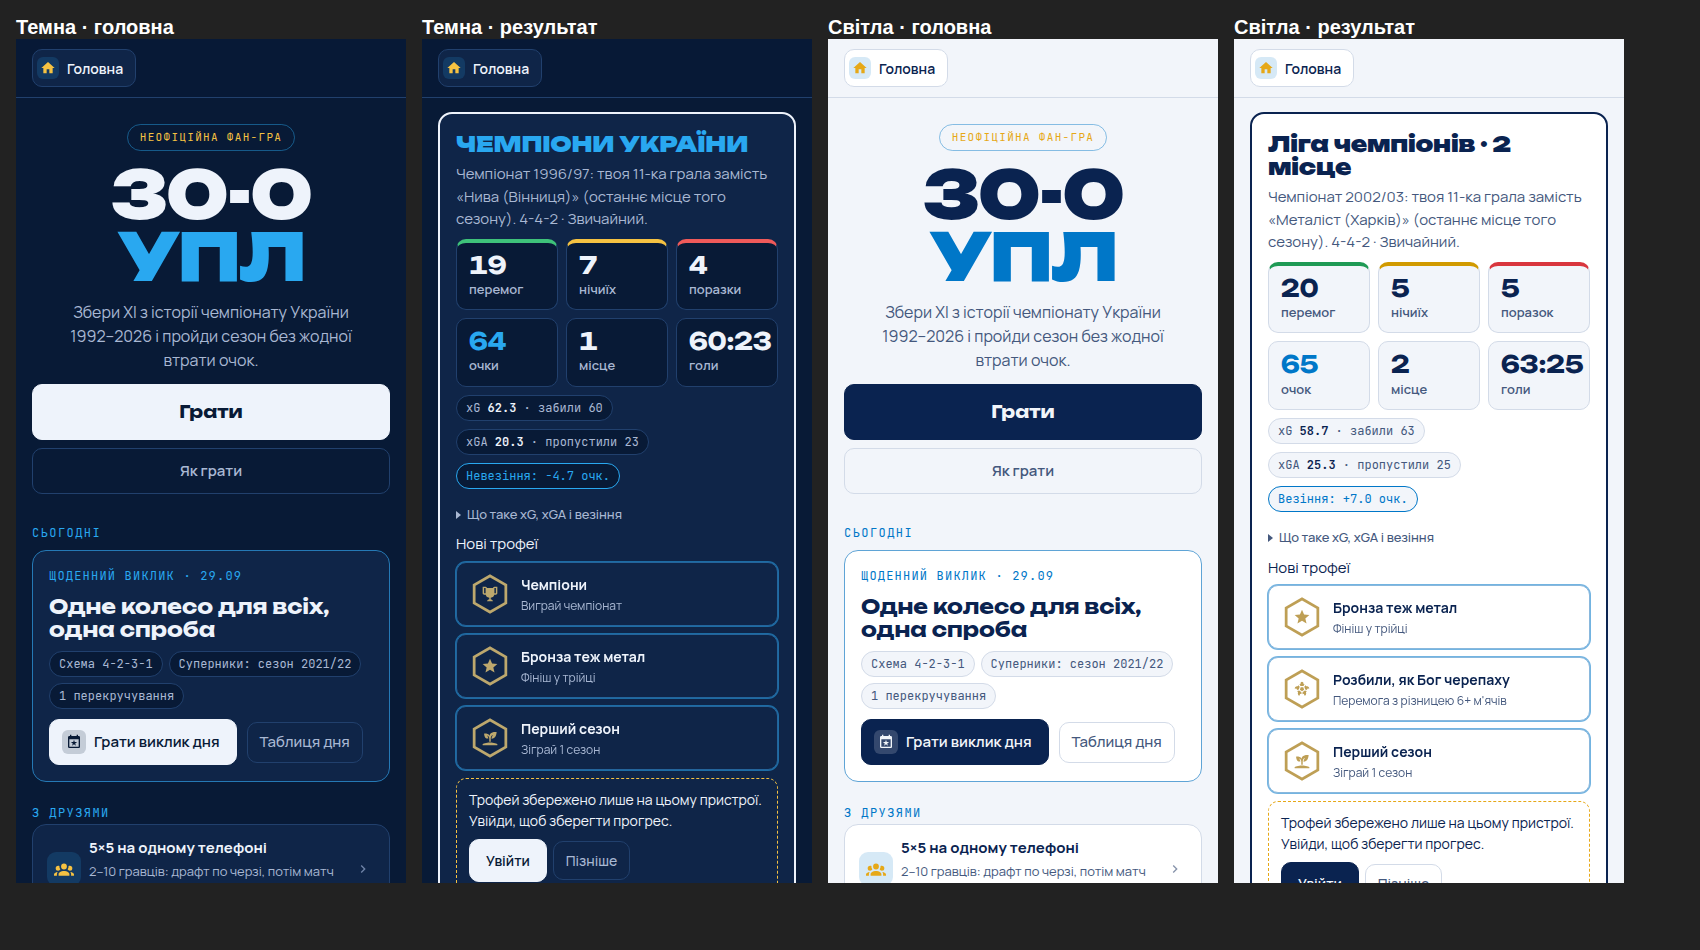
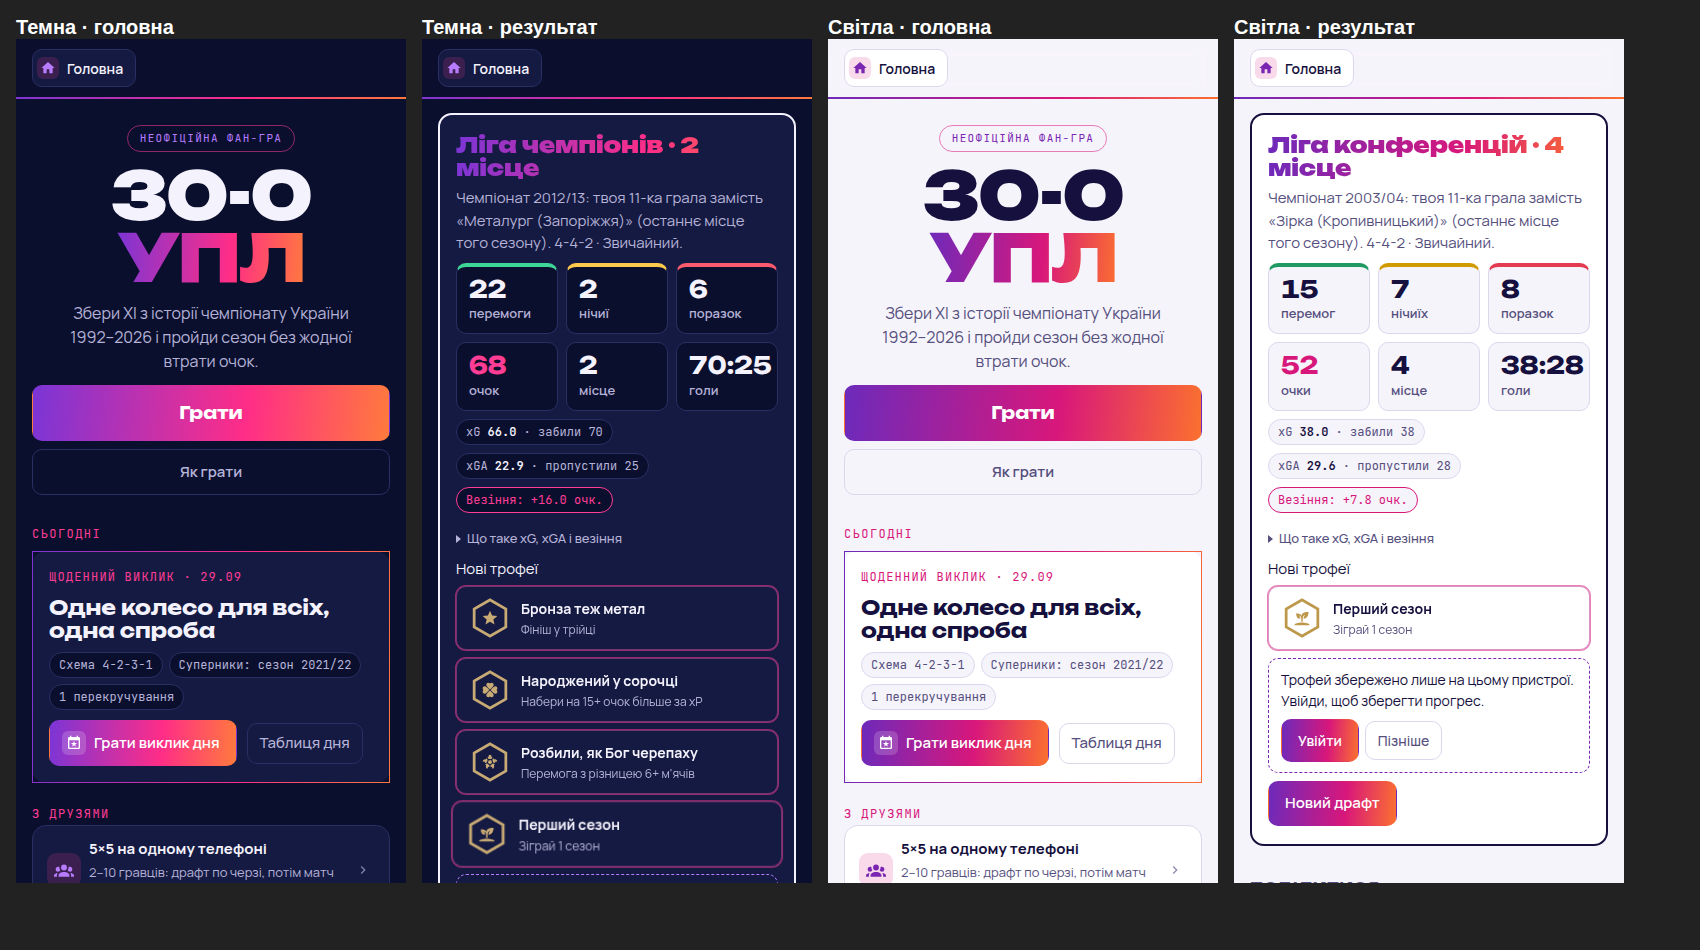
Тема УПЛ (?skin=upl): синій + градієнт фіолетовий→рожевий→помаранчевий, як UPL.TV
scenarios: усе гаразд, determinism 8/8.

Claude-Session: https://claude.ai/code/session_01Y4Xuhh4kofeZW6QkSmyDid

diff --git a/index.html b/index.html
@@ -37,9 +37,9 @@
 :root[data-skin="board"]{--bg:#f5f3ef; --bg2:#ebe8e2; --surface:#fffdf9; --line:#dcd7ce; --ink:#161514; --ink2:#5c5850; --muted:#928c82; --pitch:#2f6b45; --pitch2:#234f33; --chalk:#ffffff; --amber:#c44f00; --amber2:#ff8a2a; --win:#34C759; --draw:#FFCC00; --loss:#FF3B30; --gk:#FFCC00; --df:#007AFF; --mf:#34C759; --fw:#FF3B30;}
 @media (prefers-color-scheme: dark){ :root[data-skin="board"]:not([data-theme="light"]){--bg:#121212; --bg2:#0b0b0b; --surface:#1c1c1d; --line:#303032; --ink:#f4f1ea; --ink2:#b3aea4; --muted:#7c776f; --pitch:#2c563b; --pitch2:#1c3a27; --chalk:#f0ede6; --amber:#ff7a1a; --amber2:#ff9a3d; --win:#30D158; --draw:#FFD60A; --loss:#FF453A; --gk:#FFD60A; --df:#0A84FF; --mf:#30D158; --fw:#FF453A; color-scheme:dark;}}
 :root[data-skin="board"][data-theme="dark"]{--bg:#121212; --bg2:#0b0b0b; --surface:#1c1c1d; --line:#303032; --ink:#f4f1ea; --ink2:#b3aea4; --muted:#7c776f; --pitch:#2c563b; --pitch2:#1c3a27; --chalk:#f0ede6; --amber:#ff7a1a; --amber2:#ff9a3d; --win:#30D158; --draw:#FFD60A; --loss:#FF453A; --gk:#FFD60A; --df:#0A84FF; --mf:#30D158; --fw:#FF453A; color-scheme:dark;}
-:root[data-skin="upl"]{--bg:#f2f5fa; --bg2:#e6ebf3; --surface:#ffffff; --line:#d3dbe8; --ink:#0a2350; --ink2:#44587d; --muted:#8793ab; --pitch:#1d6b4a; --pitch2:#155437; --chalk:#ffffff; --amber:#0077c8; --amber2:#e6a817; --win:#1f9a55; --draw:#d19a00; --loss:#d9363e; --gk:#e6a817; --df:#0077c8; --mf:#1f9a55; --fw:#d9363e;}
-@media (prefers-color-scheme: dark){ :root[data-skin="upl"]:not([data-theme="light"]){--bg:#081a36; --bg2:#06142b; --surface:#0f2548; --line:#21406d; --ink:#eef3fb; --ink2:#a9b8d3; --muted:#7084a8; --pitch:#1d6b4a; --pitch2:#134834; --chalk:#e8f0f8; --amber:#29a8f0; --amber2:#f5c242; --win:#3ec27a; --draw:#f5c242; --loss:#ef5a5a; --gk:#f5c242; --df:#29a8f0; --mf:#3ec27a; --fw:#ef5a5a; color-scheme:dark;}}
-:root[data-skin="upl"][data-theme="dark"]{--bg:#081a36; --bg2:#06142b; --surface:#0f2548; --line:#21406d; --ink:#eef3fb; --ink2:#a9b8d3; --muted:#7084a8; --pitch:#1d6b4a; --pitch2:#134834; --chalk:#e8f0f8; --amber:#29a8f0; --amber2:#f5c242; --win:#3ec27a; --draw:#f5c242; --loss:#ef5a5a; --gk:#f5c242; --df:#29a8f0; --mf:#3ec27a; --fw:#ef5a5a; color-scheme:dark;}
+:root[data-skin="upl"]{--bg:#f6f4fb; --bg2:#ece8f6; --surface:#ffffff; --line:#ddd7ee; --ink:#15103d; --ink2:#554f7d; --muted:#908bb0; --pitch:#1f6b52; --pitch2:#16513d; --chalk:#ffffff; --amber:#d8177b; --amber2:#7a26b3; --win:#1f9a62; --draw:#d19a00; --loss:#e23b52; --gk:#e0a100; --df:#3b5bdb; --mf:#1f9a62; --fw:#e23b52; --grad:linear-gradient(95deg,#6d2abb 0%,#d8177b 60%,#fb702f 100%);}
+@media (prefers-color-scheme: dark){ :root[data-skin="upl"]:not([data-theme="light"]){--bg:#0b0f2e; --bg2:#070a22; --surface:#151a42; --line:#282f62; --ink:#f4f2fc; --ink2:#b5b3d8; --muted:#7c80aa; --pitch:#1c5c46; --pitch2:#123f30; --chalk:#e8ecf8; --amber:#ff3d94; --amber2:#b77cff; --win:#3ed598; --draw:#ffc94d; --loss:#ff5a6e; --gk:#ffc94d; --df:#6f8cff; --mf:#3ed598; --fw:#ff5a6e; --grad:linear-gradient(95deg,#7b35d6 0%,#ff2d87 60%,#ff7a3d 100%); color-scheme:dark;}}
+:root[data-skin="upl"][data-theme="dark"]{--bg:#0b0f2e; --bg2:#070a22; --surface:#151a42; --line:#282f62; --ink:#f4f2fc; --ink2:#b5b3d8; --muted:#7c80aa; --pitch:#1c5c46; --pitch2:#123f30; --chalk:#e8ecf8; --amber:#ff3d94; --amber2:#b77cff; --win:#3ed598; --draw:#ffc94d; --loss:#ff5a6e; --gk:#ffc94d; --df:#6f8cff; --mf:#3ed598; --fw:#ff5a6e; --grad:linear-gradient(95deg,#7b35d6 0%,#ff2d87 60%,#ff7a3d 100%); color-scheme:dark;}
 :root[data-skin="programme"]{--bg:#f4ecdc; --bg2:#eadfca; --surface:#fbf6ea; --line:#d8cbb0; --ink:#1b2340; --ink2:#4d5470; --muted:#8a8570; --pitch:#4f7a3a; --pitch2:#3a5e2b; --chalk:#fbf6ea; --amber:#c8202f; --amber2:#ffd54a; --win:#3d7a34; --draw:#b8901c; --loss:#c8202f; --gk:#c79a1e; --df:#2a4f9c; --mf:#3d7a34; --fw:#c8202f;}
 @media (prefers-color-scheme: dark){ :root[data-skin="programme"]:not([data-theme="light"]){--bg:#161b2e; --bg2:#10152a; --surface:#1e2540; --line:#333c5e; --ink:#f4ecdc; --ink2:#c2bba6; --muted:#878399; --pitch:#4a763a; --pitch2:#33552a; --chalk:#f4ecdc; --amber:#ff5a5f; --amber2:#ffd54a; --win:#6cc25c; --draw:#e6c04a; --loss:#ff5a5f; --gk:#ffd54a; --df:#7ea6ff; --mf:#6cc25c; --fw:#ff5a5f; color-scheme:dark;}}
 :root[data-skin="programme"][data-theme="dark"]{--bg:#161b2e; --bg2:#10152a; --surface:#1e2540; --line:#333c5e; --ink:#f4ecdc; --ink2:#c2bba6; --muted:#878399; --pitch:#4a763a; --pitch2:#33552a; --chalk:#f4ecdc; --amber:#ff5a5f; --amber2:#ffd54a; --win:#6cc25c; --draw:#e6c04a; --loss:#ff5a5f; --gk:#ffd54a; --df:#7ea6ff; --mf:#6cc25c; --fw:#ff5a5f; color-scheme:dark;}
@@ -243,6 +243,11 @@ button.ghost.big0{padding:11px 18px;font-size:15px;font-family:var(--font-body);
 .facts0{justify-content:center;margin-top:18px}.hero0 h1{font-size:clamp(24px,5.5vw,36px);line-height:1.1;letter-spacing:-.01em}
 .lead0{font-size:16px;color:var(--ink2);margin:0;max-width:60ch}.facts0{display:flex;flex-wrap:wrap;gap:6px 16px;font-size:13px;color:var(--ink2)}.facts0 b{font-family:var(--font-display);color:var(--ink);font-size:16px}
 .mode0{margin-top:14px}
+:root[data-skin="upl"] .logo0 span,:root[data-skin="upl"] .tier{background:var(--grad);-webkit-background-clip:text;background-clip:text;color:transparent}
+:root[data-skin="upl"] button.primary{background:var(--grad);color:#fff;border-color:transparent}:root[data-skin="upl"] button.primary .ic{background:rgba(255,255,255,.18);color:#fff}
+:root[data-skin="upl"] .badge0{border-color:color-mix(in srgb,var(--amber) 55%,transparent)}:root[data-skin="upl"] #dailyCard{border-image:var(--grad) 1;border-width:1px;border-style:solid}
+:root[data-skin="upl"] header.top{border-bottom:2px solid transparent;border-image:var(--grad) 1}
+
 #moveBtn.on{border-color:var(--amber);color:var(--amber)}
 #wHint{display:block;text-align:right;font-size:12px;margin-top:-2px}
 html.tgfs header.top{padding-top:calc(10px + var(--tg-safe-area-inset-top,0px) + var(--tg-content-safe-area-inset-top,0px))}

diff --git a/src/template.html b/src/template.html
@@ -24,9 +24,9 @@
 :root[data-skin="board"]{--bg:#f5f3ef; --bg2:#ebe8e2; --surface:#fffdf9; --line:#dcd7ce; --ink:#161514; --ink2:#5c5850; --muted:#928c82; --pitch:#2f6b45; --pitch2:#234f33; --chalk:#ffffff; --amber:#c44f00; --amber2:#ff8a2a; --win:#34C759; --draw:#FFCC00; --loss:#FF3B30; --gk:#FFCC00; --df:#007AFF; --mf:#34C759; --fw:#FF3B30;}
 @media (prefers-color-scheme: dark){ :root[data-skin="board"]:not([data-theme="light"]){--bg:#121212; --bg2:#0b0b0b; --surface:#1c1c1d; --line:#303032; --ink:#f4f1ea; --ink2:#b3aea4; --muted:#7c776f; --pitch:#2c563b; --pitch2:#1c3a27; --chalk:#f0ede6; --amber:#ff7a1a; --amber2:#ff9a3d; --win:#30D158; --draw:#FFD60A; --loss:#FF453A; --gk:#FFD60A; --df:#0A84FF; --mf:#30D158; --fw:#FF453A; color-scheme:dark;}}
 :root[data-skin="board"][data-theme="dark"]{--bg:#121212; --bg2:#0b0b0b; --surface:#1c1c1d; --line:#303032; --ink:#f4f1ea; --ink2:#b3aea4; --muted:#7c776f; --pitch:#2c563b; --pitch2:#1c3a27; --chalk:#f0ede6; --amber:#ff7a1a; --amber2:#ff9a3d; --win:#30D158; --draw:#FFD60A; --loss:#FF453A; --gk:#FFD60A; --df:#0A84FF; --mf:#30D158; --fw:#FF453A; color-scheme:dark;}
-:root[data-skin="upl"]{--bg:#f2f5fa; --bg2:#e6ebf3; --surface:#ffffff; --line:#d3dbe8; --ink:#0a2350; --ink2:#44587d; --muted:#8793ab; --pitch:#1d6b4a; --pitch2:#155437; --chalk:#ffffff; --amber:#0077c8; --amber2:#e6a817; --win:#1f9a55; --draw:#d19a00; --loss:#d9363e; --gk:#e6a817; --df:#0077c8; --mf:#1f9a55; --fw:#d9363e;}
-@media (prefers-color-scheme: dark){ :root[data-skin="upl"]:not([data-theme="light"]){--bg:#081a36; --bg2:#06142b; --surface:#0f2548; --line:#21406d; --ink:#eef3fb; --ink2:#a9b8d3; --muted:#7084a8; --pitch:#1d6b4a; --pitch2:#134834; --chalk:#e8f0f8; --amber:#29a8f0; --amber2:#f5c242; --win:#3ec27a; --draw:#f5c242; --loss:#ef5a5a; --gk:#f5c242; --df:#29a8f0; --mf:#3ec27a; --fw:#ef5a5a; color-scheme:dark;}}
-:root[data-skin="upl"][data-theme="dark"]{--bg:#081a36; --bg2:#06142b; --surface:#0f2548; --line:#21406d; --ink:#eef3fb; --ink2:#a9b8d3; --muted:#7084a8; --pitch:#1d6b4a; --pitch2:#134834; --chalk:#e8f0f8; --amber:#29a8f0; --amber2:#f5c242; --win:#3ec27a; --draw:#f5c242; --loss:#ef5a5a; --gk:#f5c242; --df:#29a8f0; --mf:#3ec27a; --fw:#ef5a5a; color-scheme:dark;}
+:root[data-skin="upl"]{--bg:#f6f4fb; --bg2:#ece8f6; --surface:#ffffff; --line:#ddd7ee; --ink:#15103d; --ink2:#554f7d; --muted:#908bb0; --pitch:#1f6b52; --pitch2:#16513d; --chalk:#ffffff; --amber:#d8177b; --amber2:#7a26b3; --win:#1f9a62; --draw:#d19a00; --loss:#e23b52; --gk:#e0a100; --df:#3b5bdb; --mf:#1f9a62; --fw:#e23b52; --grad:linear-gradient(95deg,#6d2abb 0%,#d8177b 60%,#fb702f 100%);}
+@media (prefers-color-scheme: dark){ :root[data-skin="upl"]:not([data-theme="light"]){--bg:#0b0f2e; --bg2:#070a22; --surface:#151a42; --line:#282f62; --ink:#f4f2fc; --ink2:#b5b3d8; --muted:#7c80aa; --pitch:#1c5c46; --pitch2:#123f30; --chalk:#e8ecf8; --amber:#ff3d94; --amber2:#b77cff; --win:#3ed598; --draw:#ffc94d; --loss:#ff5a6e; --gk:#ffc94d; --df:#6f8cff; --mf:#3ed598; --fw:#ff5a6e; --grad:linear-gradient(95deg,#7b35d6 0%,#ff2d87 60%,#ff7a3d 100%); color-scheme:dark;}}
+:root[data-skin="upl"][data-theme="dark"]{--bg:#0b0f2e; --bg2:#070a22; --surface:#151a42; --line:#282f62; --ink:#f4f2fc; --ink2:#b5b3d8; --muted:#7c80aa; --pitch:#1c5c46; --pitch2:#123f30; --chalk:#e8ecf8; --amber:#ff3d94; --amber2:#b77cff; --win:#3ed598; --draw:#ffc94d; --loss:#ff5a6e; --gk:#ffc94d; --df:#6f8cff; --mf:#3ed598; --fw:#ff5a6e; --grad:linear-gradient(95deg,#7b35d6 0%,#ff2d87 60%,#ff7a3d 100%); color-scheme:dark;}
 :root[data-skin="programme"]{--bg:#f4ecdc; --bg2:#eadfca; --surface:#fbf6ea; --line:#d8cbb0; --ink:#1b2340; --ink2:#4d5470; --muted:#8a8570; --pitch:#4f7a3a; --pitch2:#3a5e2b; --chalk:#fbf6ea; --amber:#c8202f; --amber2:#ffd54a; --win:#3d7a34; --draw:#b8901c; --loss:#c8202f; --gk:#c79a1e; --df:#2a4f9c; --mf:#3d7a34; --fw:#c8202f;}
 @media (prefers-color-scheme: dark){ :root[data-skin="programme"]:not([data-theme="light"]){--bg:#161b2e; --bg2:#10152a; --surface:#1e2540; --line:#333c5e; --ink:#f4ecdc; --ink2:#c2bba6; --muted:#878399; --pitch:#4a763a; --pitch2:#33552a; --chalk:#f4ecdc; --amber:#ff5a5f; --amber2:#ffd54a; --win:#6cc25c; --draw:#e6c04a; --loss:#ff5a5f; --gk:#ffd54a; --df:#7ea6ff; --mf:#6cc25c; --fw:#ff5a5f; color-scheme:dark;}}
 :root[data-skin="programme"][data-theme="dark"]{--bg:#161b2e; --bg2:#10152a; --surface:#1e2540; --line:#333c5e; --ink:#f4ecdc; --ink2:#c2bba6; --muted:#878399; --pitch:#4a763a; --pitch2:#33552a; --chalk:#f4ecdc; --amber:#ff5a5f; --amber2:#ffd54a; --win:#6cc25c; --draw:#e6c04a; --loss:#ff5a5f; --gk:#ffd54a; --df:#7ea6ff; --mf:#6cc25c; --fw:#ff5a5f; color-scheme:dark;}
@@ -230,6 +230,11 @@ button.ghost.big0{padding:11px 18px;font-size:15px;font-family:var(--font-body);
 .facts0{justify-content:center;margin-top:18px}.hero0 h1{font-size:clamp(24px,5.5vw,36px);line-height:1.1;letter-spacing:-.01em}
 .lead0{font-size:16px;color:var(--ink2);margin:0;max-width:60ch}.facts0{display:flex;flex-wrap:wrap;gap:6px 16px;font-size:13px;color:var(--ink2)}.facts0 b{font-family:var(--font-display);color:var(--ink);font-size:16px}
 .mode0{margin-top:14px}
+:root[data-skin="upl"] .logo0 span,:root[data-skin="upl"] .tier{background:var(--grad);-webkit-background-clip:text;background-clip:text;color:transparent}
+:root[data-skin="upl"] button.primary{background:var(--grad);color:#fff;border-color:transparent}:root[data-skin="upl"] button.primary .ic{background:rgba(255,255,255,.18);color:#fff}
+:root[data-skin="upl"] .badge0{border-color:color-mix(in srgb,var(--amber) 55%,transparent)}:root[data-skin="upl"] #dailyCard{border-image:var(--grad) 1;border-width:1px;border-style:solid}
+:root[data-skin="upl"] header.top{border-bottom:2px solid transparent;border-image:var(--grad) 1}
+
 #moveBtn.on{border-color:var(--amber);color:var(--amber)}
 #wHint{display:block;text-align:right;font-size:12px;margin-top:-2px}
 html.tgfs header.top{padding-top:calc(10px + var(--tg-safe-area-inset-top,0px) + var(--tg-content-safe-area-inset-top,0px))}

diff --git a/CHANGELOG.md b/CHANGELOG.md
@@ -25,7 +25,7 @@
 - «Зібрали гурт» → «Реюніон-тур».
 
 **Дизайн (проба)**
-- Скрытая тема «УПЛ» (тёмно-синий, голубой, золото; светлая и тёмная): включается `?skin=upl`, выключается `?skin=board`. Снимки — `docs/theme_upl.png`.
+- Скрытая тема «УПЛ»: включается `?skin=upl`, выключается `?skin=board`. После выпуска переделана под актуальную айдентику (UPL.TV): тёмно-синий + градиент фиолетовый → розовый → оранжевый (`#6d2abb → #d8177b → #fb702f`), градиентные главные кнопки и логотип; светлая и тёмная. Снимки — `docs/theme_upl.png`.
 
 **Документы**
 - `docs/ratings.md` — как считается рейтинг и сезон.
